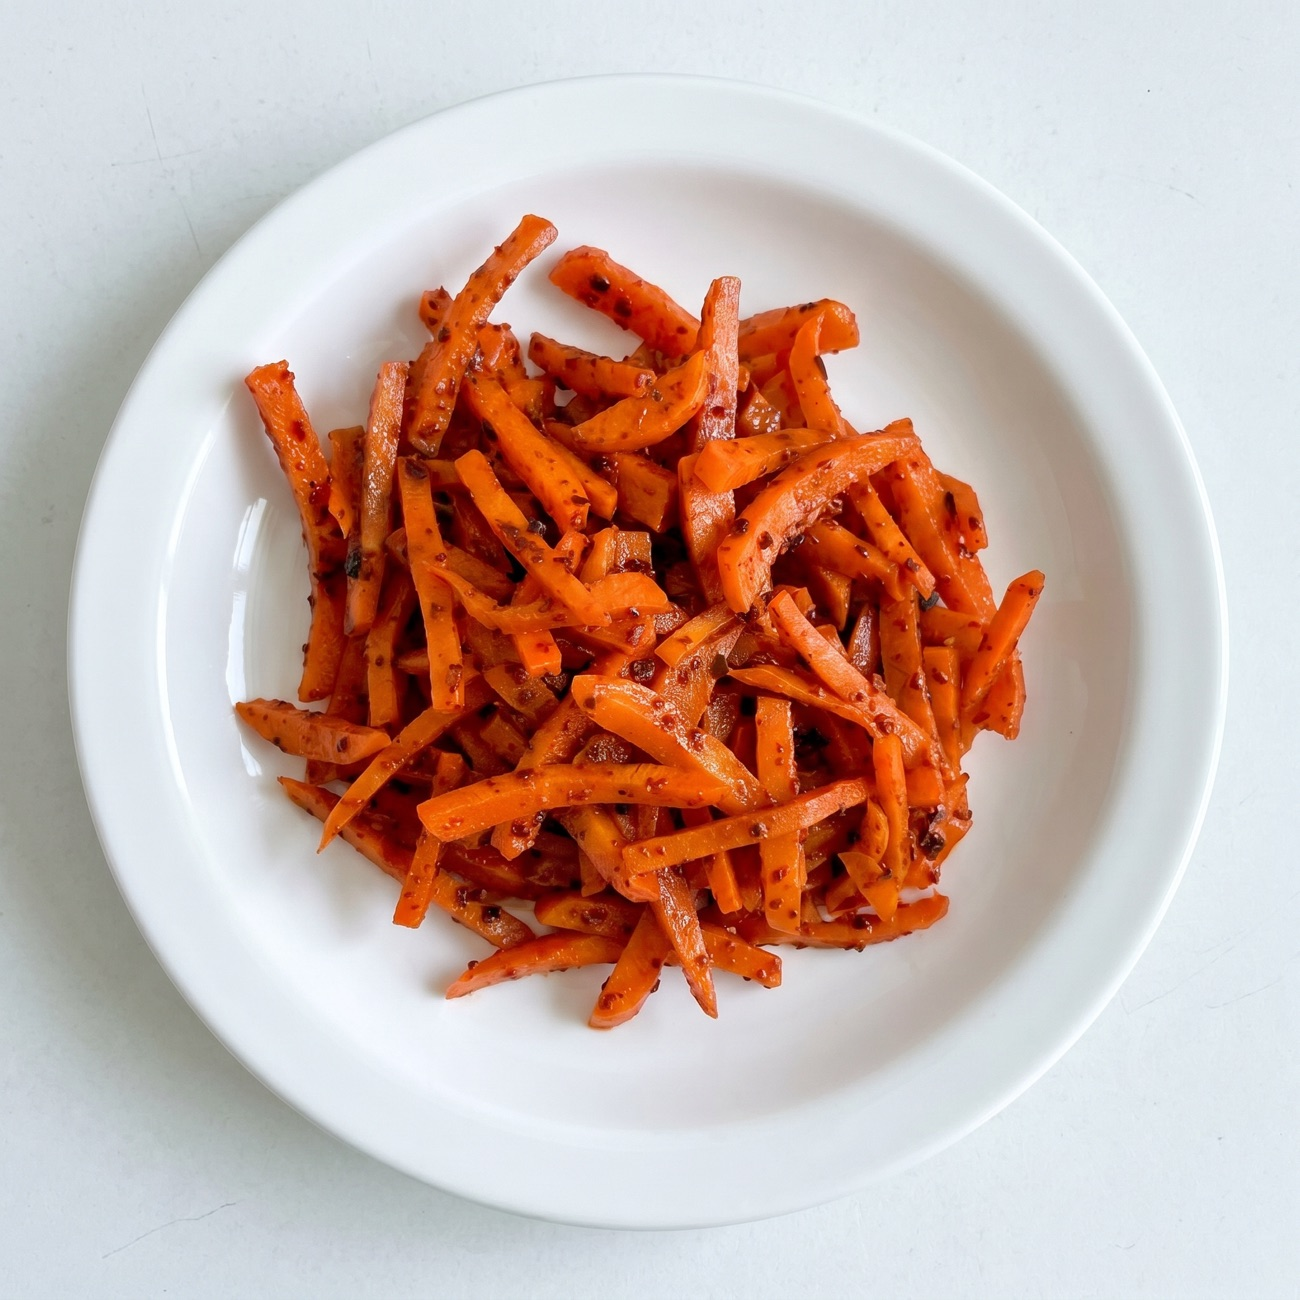
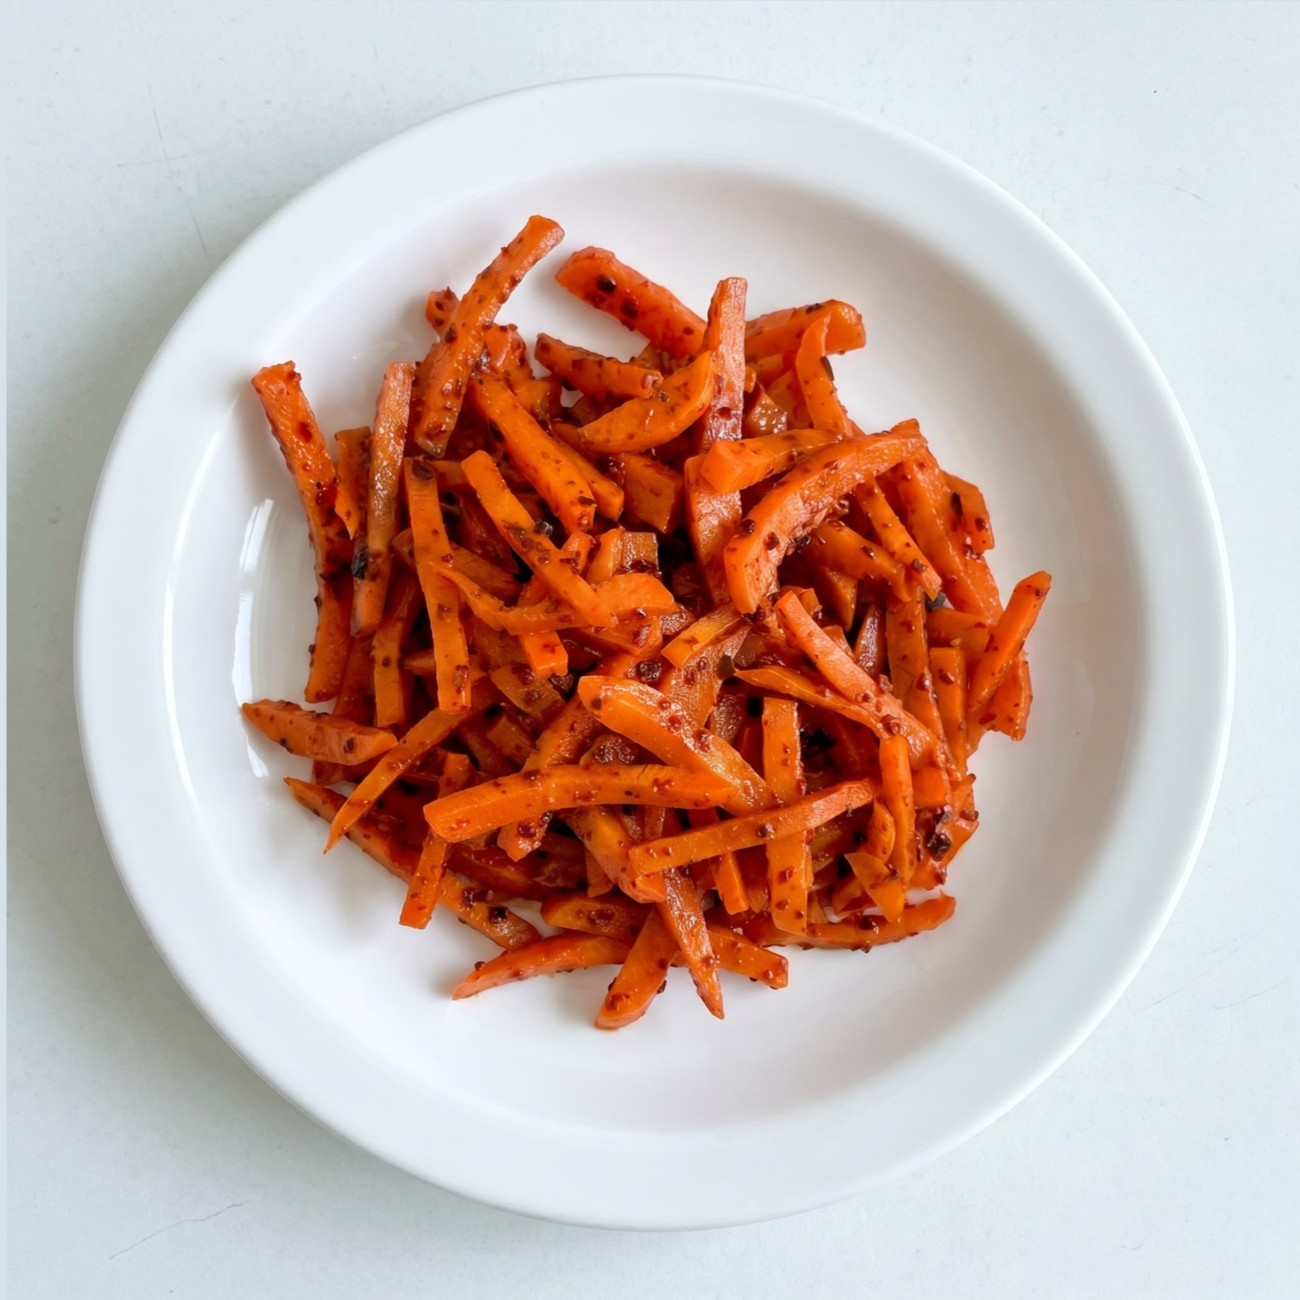
realign product images

diff --git a/studio/studio.js b/studio/studio.js
@@ -1,0 +1,155 @@
+/* ══════════════════════════════════════════════════════════
+   Banchan Jib — Photo Studio (local framing tool)
+   Loads the pristine originals, lets you pan + zoom each photo,
+   and writes the framed result back to the live site images.
+   Non-destructive: always works from _orig_backup, so you can
+   re-frame any time without quality loss.
+   ══════════════════════════════════════════════════════════ */
+(function () {
+  const PRODUCTS = [
+    { id: 'geotjeori',  name: 'Geotjeori Cup',       sub: 'Fresh Cabbage Kimchi' },
+    { id: 'dangeun',    name: 'Dangeun Namul Cup',   sub: 'Seasoned Carrots' },
+    { id: 'shigeumchi', name: 'Shigeumchi Namul Cup', sub: 'Seasoned Spinach' },
+    { id: 'trio',       name: 'The Banchan Trio',    sub: '3-Cup Bundle Set' },
+  ];
+  const SRC = id => `/assets/img/_orig_backup/${id}.jpg`;
+  const OUT_FULL = 1300, OUT_SM = 560;
+  const DEFAULT_T = () => ({ scale: 1, panX: 0, panY: 0 });
+  const clamp = (v, a, b) => Math.max(a, Math.min(b, v));
+
+  /* draw the framed image into a square context of side S */
+  function drawFramed(ctx, img, S, t, bg) {
+    ctx.fillStyle = bg;
+    ctx.fillRect(0, 0, S, S);
+    const d = S * t.scale;
+    const x = (S - d) / 2 + t.panX * S;
+    const y = (S - d) / 2 + t.panY * S;
+    ctx.imageSmoothingQuality = 'high';
+    ctx.drawImage(img, x, y, d, d);
+  }
+
+  function sampleBg(img) {
+    const c = document.createElement('canvas'); c.width = c.height = 8;
+    const x = c.getContext('2d'); x.drawImage(img, 0, 0, 8, 8);
+    const d = x.getImageData(0, 0, 8, 8).data;
+    // average the 4 corners
+    const px = [[0, 0], [7, 0], [0, 7], [7, 7]].map(([a, b]) => (b * 8 + a) * 4);
+    let r = 0, g = 0, bl = 0;
+    px.forEach(i => { r += d[i]; g += d[i + 1]; bl += d[i + 2]; });
+    return `rgb(${r / 4 | 0},${g / 4 | 0},${bl / 4 | 0})`;
+  }
+
+  async function loadCrops() {
+    try { return await (await fetch('/studio/crops.json?b=' + Date.now())).json(); }
+    catch { return {}; }
+  }
+
+  function makeCard(p, seed) {
+    const card = document.createElement('div');
+    card.className = 'card';
+    card.innerHTML = `
+      <h2>${p.name}</h2>
+      <div class="sub">${p.sub} · <code>${p.id}.jpg</code></div>
+      <div class="stage"><canvas></canvas></div>
+      <div class="controls">
+        <label>Zoom</label>
+        <input type="range" class="zoom" min="0.6" max="2.6" step="0.005" value="${seed.scale}">
+        <span class="zoomval">${(seed.scale * 100).toFixed(0)}%</span>
+      </div>
+      <div class="btnrow">
+        <button class="btn-reset">Reset</button>
+        <button class="btn-save">Save to site</button>
+      </div>
+      <div class="status"></div>
+      <div class="legend">Solid circle = what shows on the site (round crop). Crosshair = center.</div>`;
+    document.getElementById('grid').appendChild(card);
+
+    const stage = card.querySelector('.stage');
+    const canvas = card.querySelector('canvas');
+    const ctx = canvas.getContext('2d');
+    const zoom = card.querySelector('.zoom');
+    const zoomval = card.querySelector('.zoomval');
+    const status = card.querySelector('.status');
+
+    let t = { ...DEFAULT_T(), ...seed };
+    let img = null, bg = '#000';
+
+    const DISP = 460;
+    canvas.width = DISP; canvas.height = DISP;
+
+    function render() {
+      if (!img) return;
+      drawFramed(ctx, img, DISP, t, bg);
+      // overlays
+      ctx.save();
+      ctx.strokeStyle = 'rgba(255,255,255,.85)'; ctx.lineWidth = 2;
+      ctx.beginPath(); ctx.arc(DISP / 2, DISP / 2, DISP / 2 - 1, 0, Math.PI * 2); ctx.stroke();
+      ctx.strokeStyle = 'rgba(255,80,80,.9)'; ctx.lineWidth = 1;
+      ctx.beginPath(); ctx.moveTo(DISP / 2, 0); ctx.lineTo(DISP / 2, DISP);
+      ctx.moveTo(0, DISP / 2); ctx.lineTo(DISP, DISP / 2); ctx.stroke();
+      ctx.strokeStyle = 'rgba(255,255,255,.18)';
+      [1 / 3, 2 / 3].forEach(f => {
+        ctx.beginPath(); ctx.moveTo(DISP * f, 0); ctx.lineTo(DISP * f, DISP);
+        ctx.moveTo(0, DISP * f); ctx.lineTo(DISP, DISP * f); ctx.stroke();
+      });
+      ctx.restore();
+      zoomval.textContent = (t.scale * 100).toFixed(0) + '%';
+      zoom.value = t.scale;
+    }
+
+    const im = new Image();
+    im.onload = () => { img = im; bg = sampleBg(im); render(); };
+    im.src = SRC(p.id);
+
+    /* drag to pan */
+    let drag = null;
+    stage.addEventListener('pointerdown', e => {
+      drag = { x: e.clientX, y: e.clientY, px: t.panX, py: t.panY };
+      stage.classList.add('grabbing'); stage.setPointerCapture(e.pointerId);
+    });
+    stage.addEventListener('pointermove', e => {
+      if (!drag) return;
+      const r = stage.getBoundingClientRect();
+      t.panX = clamp(drag.px + (e.clientX - drag.x) / r.width, -0.6, 0.6);
+      t.panY = clamp(drag.py + (e.clientY - drag.y) / r.height, -0.6, 0.6);
+      render();
+    });
+    const endDrag = e => { drag = null; stage.classList.remove('grabbing'); try { stage.releasePointerCapture(e.pointerId); } catch {} };
+    stage.addEventListener('pointerup', endDrag);
+    stage.addEventListener('pointercancel', endDrag);
+
+    /* wheel to zoom */
+    stage.addEventListener('wheel', e => {
+      e.preventDefault();
+      t.scale = clamp(t.scale - e.deltaY * 0.0012, 0.6, 2.6);
+      render();
+    }, { passive: false });
+
+    zoom.addEventListener('input', () => { t.scale = +zoom.value; render(); });
+    card.querySelector('.btn-reset').addEventListener('click', () => { t = DEFAULT_T(); render(); status.textContent = ''; });
+
+    card.querySelector('.btn-save').addEventListener('click', async () => {
+      if (!img) return;
+      status.className = 'status'; status.textContent = 'Saving…';
+      try {
+        const mk = S => { const c = document.createElement('canvas'); c.width = c.height = S; drawFramed(c.getContext('2d'), img, S, t, bg); return c.toDataURL('image/jpeg', S > 800 ? 0.9 : 0.82); };
+        const r = await fetch('/studio/save', {
+          method: 'POST', headers: { 'Content-Type': 'application/json' },
+          body: JSON.stringify({ id: p.id, full: mk(OUT_FULL), sm: mk(OUT_SM), transform: t }),
+        });
+        if (!r.ok) throw new Error(await r.text());
+        status.textContent = '✓ Saved to the site (' + new Date().toLocaleTimeString() + ')';
+      } catch (err) {
+        status.className = 'status err'; status.textContent = '✕ ' + err.message;
+      }
+    });
+
+    return { save: () => card.querySelector('.btn-save').click() };
+  }
+
+  (async function init() {
+    const crops = await loadCrops();
+    const cards = PRODUCTS.map(p => makeCard(p, crops[p.id] || DEFAULT_T()));
+    document.getElementById('save-all').addEventListener('click', () => cards.forEach(c => c.save()));
+  })();
+})();

diff --git a/server.js b/server.js
@@ -7,6 +7,45 @@ const path = require('path');
 const PORT = 4907;
 const ROOT = __dirname;
 
+/* ── Photo Studio ──────────────────────────────────────────────
+   A local-only tool for manually re-framing the product photos.
+   Flip this to false to make it completely disappear (the page,
+   its assets, and the save endpoint all 404). Files stay on disk
+   but are unreachable — flip back to true to bring it back. */
+const STUDIO_ENABLED = true;
+
+const STUDIO_IMAGES = {
+  geotjeori:  { full: 'assets/img/geotjeori.jpg',  sm: 'assets/img/geotjeori-sm.jpg' },
+  dangeun:    { full: 'assets/img/dangeun.jpg',    sm: 'assets/img/dangeun-sm.jpg' },
+  shigeumchi: { full: 'assets/img/shigeumchi.jpg', sm: 'assets/img/shigeumchi-sm.jpg' },
+  trio:       { full: 'assets/img/trio.jpg',       sm: 'assets/img/trio-sm.jpg' },
+};
+
+function handleStudioSave(req, res) {
+  let body = '';
+  req.on('data', c => { body += c; if (body.length > 30 * 1024 * 1024) req.destroy(); });
+  req.on('end', () => {
+    try {
+      const { id, full, sm, transform } = JSON.parse(body);
+      const target = STUDIO_IMAGES[id];
+      if (!target) { res.writeHead(400); return res.end('unknown image'); }
+      const toBuf = dataUrl => Buffer.from(String(dataUrl).split(',')[1], 'base64');
+      fs.writeFileSync(path.join(ROOT, target.full), toBuf(full));
+      fs.writeFileSync(path.join(ROOT, target.sm), toBuf(sm));
+      /* persist the framing so re-opening the tool resumes where you left off */
+      const cropsPath = path.join(ROOT, 'studio', 'crops.json');
+      let crops = {};
+      try { crops = JSON.parse(fs.readFileSync(cropsPath, 'utf8')); } catch {}
+      if (transform) crops[id] = transform;
+      fs.writeFileSync(cropsPath, JSON.stringify(crops, null, 2));
+      res.writeHead(200, { 'Content-Type': 'application/json' });
+      res.end(JSON.stringify({ ok: true, id }));
+    } catch (e) {
+      res.writeHead(500); res.end('save failed: ' + e.message);
+    }
+  });
+}
+
 const MIME = {
   '.html': 'text/html; charset=utf-8',
   '.css': 'text/css; charset=utf-8',
@@ -23,7 +62,15 @@ const MIME = {
 };
 
 http.createServer((req, res) => {
-  let urlPath = decodeURIComponent(req.url.split('?')[0]);
+  const rawPath = decodeURIComponent(req.url.split('?')[0]);
+
+  /* studio routes — entirely gated behind STUDIO_ENABLED */
+  if (rawPath === '/studio' || rawPath.startsWith('/studio/')) {
+    if (!STUDIO_ENABLED) { res.writeHead(404); return res.end('not found'); }
+    if (req.method === 'POST' && rawPath === '/studio/save') return handleStudioSave(req, res);
+  }
+
+  let urlPath = rawPath;
   if (urlPath.endsWith('/')) urlPath += 'index.html';
   let filePath = path.join(ROOT, path.normalize(urlPath));
   if (!filePath.startsWith(ROOT)) { res.writeHead(403); return res.end(); }

diff --git a/studio/index.html b/studio/index.html
@@ -1,0 +1,47 @@
+<!DOCTYPE html>
+<html lang="en">
+<head>
+<meta charset="UTF-8">
+<meta name="viewport" content="width=device-width, initial-scale=1">
+<title>Photo Studio · Banchan Jib</title>
+<style>
+  :root { --brown:#5A3E2B; --cream:#F6F0E7; --sage:#a8b69a; --kimchi:#8b1400; --ink:#e9e2d4; }
+  * { box-sizing: border-box; }
+  body { margin:0; background:#2b241d; color:var(--ink); font-family:'Segoe UI',system-ui,sans-serif; }
+  header { padding:18px 24px; background:#211b15; border-bottom:2px solid var(--sage); display:flex; align-items:center; gap:16px; flex-wrap:wrap; position:sticky; top:0; z-index:10; }
+  header h1 { font-size:1.2rem; margin:0; color:var(--cream); }
+  header .hint { font-size:.82rem; color:#b6ab97; }
+  header .save-all { margin-left:auto; }
+  .grid { display:grid; grid-template-columns:repeat(auto-fit,minmax(360px,1fr)); gap:22px; padding:24px; }
+  .card { background:#211b15; border:1px solid #3a3128; border-radius:16px; padding:16px; }
+  .card h2 { margin:0 0 4px; font-size:1.05rem; color:var(--cream); }
+  .card .sub { font-size:.78rem; color:#9c9081; margin-bottom:12px; }
+  .stage { position:relative; width:100%; aspect-ratio:1; background:#000; border-radius:12px; overflow:hidden; touch-action:none; cursor:grab; }
+  .stage.grabbing { cursor:grabbing; }
+  .stage canvas { position:absolute; inset:0; width:100%; height:100%; display:block; }
+  .controls { display:flex; align-items:center; gap:10px; margin-top:14px; }
+  .controls label { font-size:.8rem; color:#b6ab97; min-width:44px; }
+  .controls input[type=range] { flex:1; accent-color:var(--sage); }
+  .zoomval { font-variant-numeric:tabular-nums; font-size:.8rem; min-width:42px; text-align:right; color:#cfc4b2; }
+  .btnrow { display:flex; gap:8px; margin-top:12px; }
+  button { font:inherit; border:none; border-radius:9px; padding:9px 14px; cursor:pointer; font-size:.85rem; font-weight:600; transition:filter .15s, transform .1s; }
+  button:active { transform:translateY(1px); }
+  .btn-save { background:var(--kimchi); color:#fff4ec; flex:1; }
+  .btn-reset { background:#3a3128; color:#d8cdba; }
+  .btn-save:hover, .btn-reset:hover { filter:brightness(1.12); }
+  .save-all { background:var(--sage); color:#241c14; padding:10px 18px; }
+  .status { font-size:.78rem; margin-top:8px; min-height:1.1em; color:#8fb58f; }
+  .status.err { color:#e6957f; }
+  .legend { font-size:.72rem; color:#8a7f70; margin-top:6px; line-height:1.5; }
+</style>
+</head>
+<body>
+<header>
+  <h1>📷 Photo Studio</h1>
+  <span class="hint">Drag to reposition · scroll or slider to zoom · the circle shows what appears on the site</span>
+  <button class="save-all" id="save-all">Save all four</button>
+</header>
+<div class="grid" id="grid"></div>
+<script src="/studio/studio.js"></script>
+</body>
+</html>
